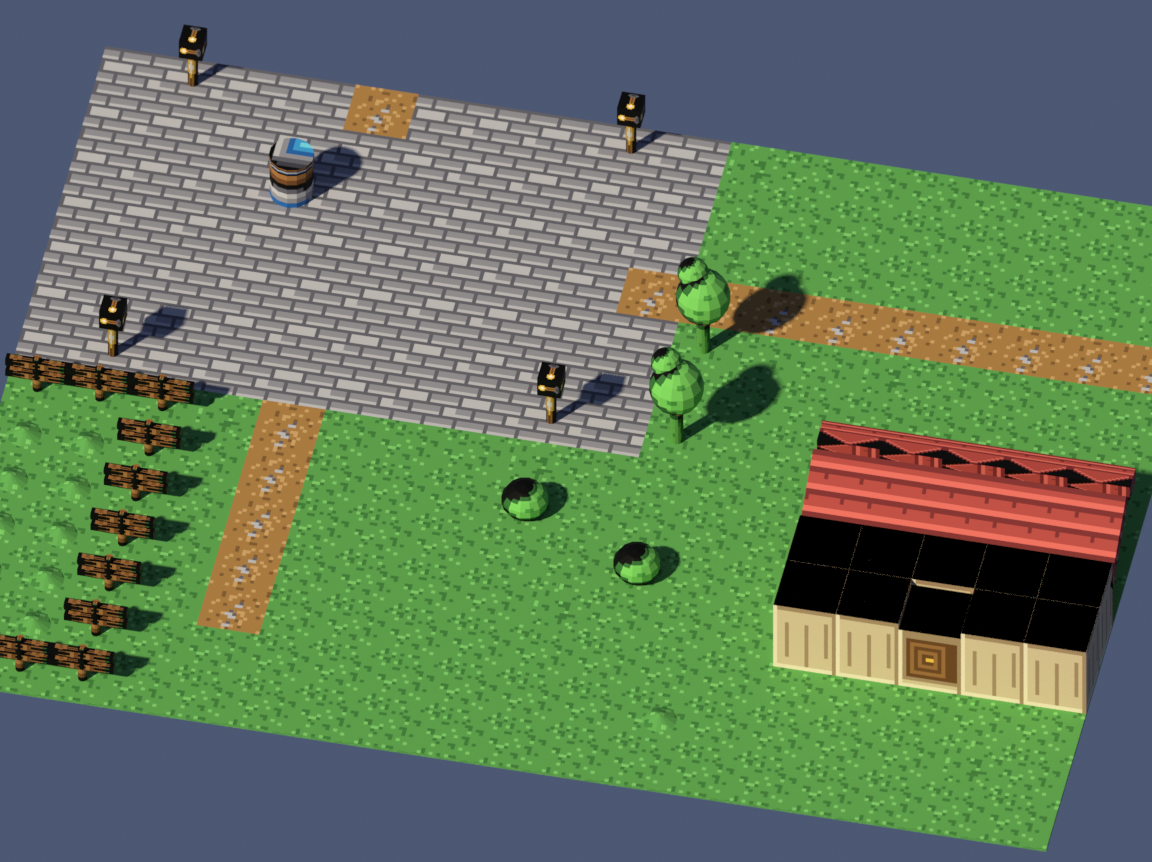
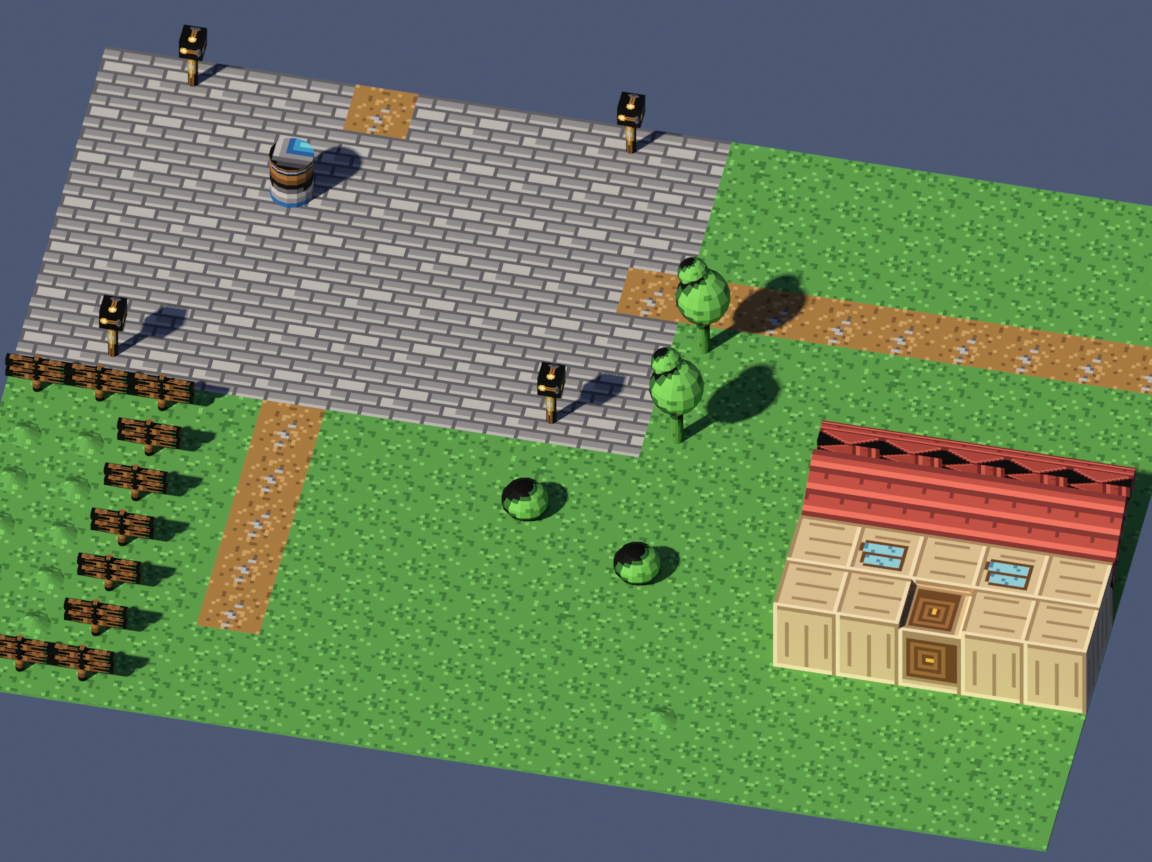
Fix the black walls: one cube per tile, not a body and a cap
The walls of every house rendered solid black. It was not the material, not
the light, not the roof above them and not the atlas coordinates - all four
were ruled out by test and written up as ruled out.

It was the cap. A wall tile was two cubes: a tall body and a one-pixel slab
laid on top of it for the top face, and the slab's top sat at exactly the
body's height. Two coincident surfaces trap Cycles' rays between them - a ray
leaves one, hits the other at zero distance, and the shading point sees only
the inside of a box - so the whole face went black. One cube per tile now,
with the tile's own art on every side, and the house comes out with cream
walls, blue windows and a door under a red roof.

The shapes that worked all along - fence rails, lamp posts, the well's drum,
tree canopies - were the ones that never had two surfaces in the same place.

Claude-Session: https://claude.ai/code/session_01UGsANBU6HSJ4hjNuh1FhtL

Changed region(s): [[0.6562, 0.5731, 0.9688, 0.7541]]

diff --git a/tools/blender/town.py b/tools/blender/town.py
@@ -286,12 +286,12 @@ def build_tile(name, colours, tx, ty):
         # Ground, and water a little below it.
         put("cube", x, y, h / 2.0 - 0.5, PPT, PPT, 1.0 + abs(h), top)
         return
-    # One block, with its top face the tile's own art and its sides the same
-    # art in shadow. A separate cap for the top sat exactly on the body's top
-    # face - two coplanar surfaces, which is a coin toss per pixel - and every
-    # wall in the town came out black.
-    put("cube", x, y, h / 2.0, PPT, PPT, h, side)
-    put("cube", x, y, h - 0.5, PPT * 0.999, PPT * 0.999, 1.0, top)
+    # One block, the tile's own art on every face. It used to be two: a body
+    # and a thin cap for the top, and the cap sat exactly on the body's top
+    # face. Two coincident surfaces trap Cycles' rays between them, and every
+    # wall in the town came out solid black - not the material, not the light,
+    # not the roof above it, all of which got blamed first.
+    put("cube", x, y, h / 2.0, PPT, PPT, h, top)
 
 
 def build(map_id, rx, ry, rw, rh):
